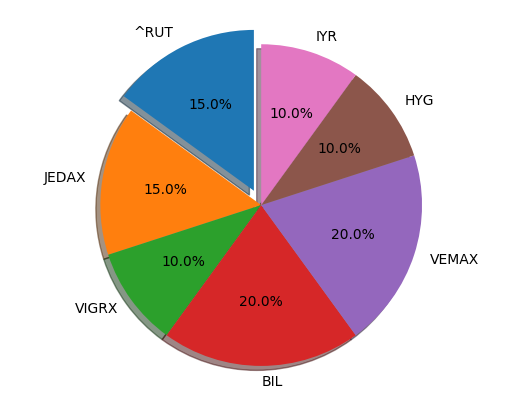
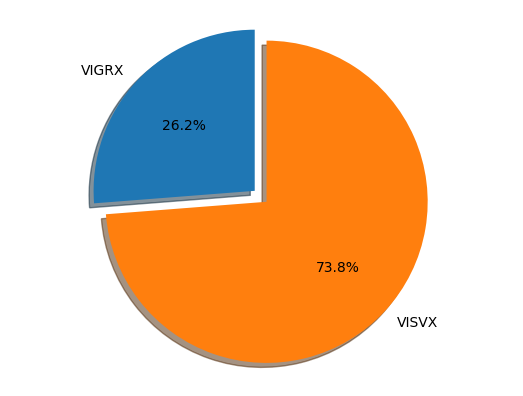
pie dictionary use

diff --git a/markowitz.py b/markowitz.py
@@ -114,7 +114,7 @@ def optimal_portfolio(daily_data):
     portfolios.reverse()
     returns.reverse()
     risks.reverse()
-    
+
     return portfolios,returns,risks
 
 
@@ -185,25 +185,30 @@ def markowitz_run(daily_data=random_assets(), tickers=None, captable=None, risk_
 
     red, blue, wheat, ribs = get_frontier_data()
 
+
     # make frontier graph
     images.append(graphs.frontier(red, blue, wheat, ribs))
 
-    # # make pie future graph
-    # weights = ribs['port'][risk_level]
-    # images.append(graphs.pie(weights, tickers, 'picture'))
-    #
-    # # make pie graph
-    # ol_waits = old_weights(captable)
-    # images.append(graphs.pie(ol_waits, old_tickers, 'pie'))
+
+    # make pie graphs
+    fpd = dict(zip(labels, ribs['port'][risk_level]))
+    new_pie = {label: fpd[label] for label in fpd if fpd[label] > 0.0005}
+    ol_pie = dict(zip(old_tickers, old_weights(captable)))
+
+    images.append(graphs.pie(new_pie, 'piefuture'))
+    images.append(graphs.pie(ol_pie, 'pie'))
+
 
     # Make noise graph
     images.append(graphs.noise(daily_data, labels))
+
 
     # Make line graphs
     images.append(graphs.line())
     images.append(graphs.line(7))
 
-    # Make normal bell curve
+
+    # Make bell curve
     images.append(graphs.normal())
 
 

diff --git a/graphs.py b/graphs.py
@@ -79,13 +79,14 @@ def normal(mu=110,sigma=7.10):
     return plt_to_img(plt, "bell")
 
 
-def pie(sizes=None, tickers=None, title='pie_default'):
+def pie(pie_data, title='pie_default'):
     # Pie chart, where the slices will be ordered and plotted counter-clockwise:
-    if tickers is None:
+    if pie_data is None:
         tickers = 'FB', 'MSFT', 'AMZN', 'GOOG'
-
-    if sizes is None:
         sizes = ops.rand_weights(4)
+    else:
+        tickers, sizes = pie_data.keys(), pie_data.values()
+
 
     explode = [0 for t in tickers]
     explode[0] = .1
@@ -96,7 +97,8 @@ def pie(sizes=None, tickers=None, title='pie_default'):
     print("tickers: ", tickers)
     print("explode: ", explode)
     fig1, ax1 = plt.subplots()
-    ax1.pie(sizes, labels=tickers, autopct='%1.1f%%',shadow=True, startangle=90)
+
+    ax1.pie(sizes, labels=tickers, explode=explode, autopct='%1.1f%%',shadow=True, startangle=90)
     ax1.axis('equal')  # Equal aspect ratio ensures that pie is drawn as a circle.
 
     return plt_to_img(plt, title)
